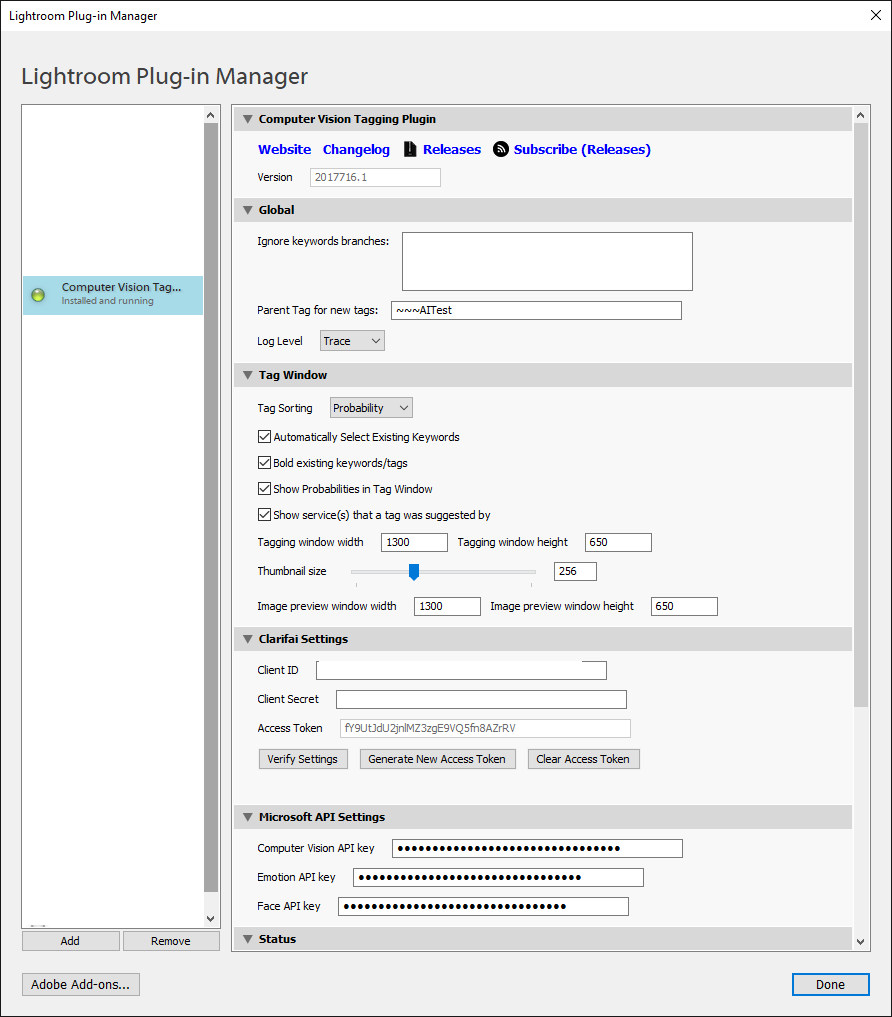
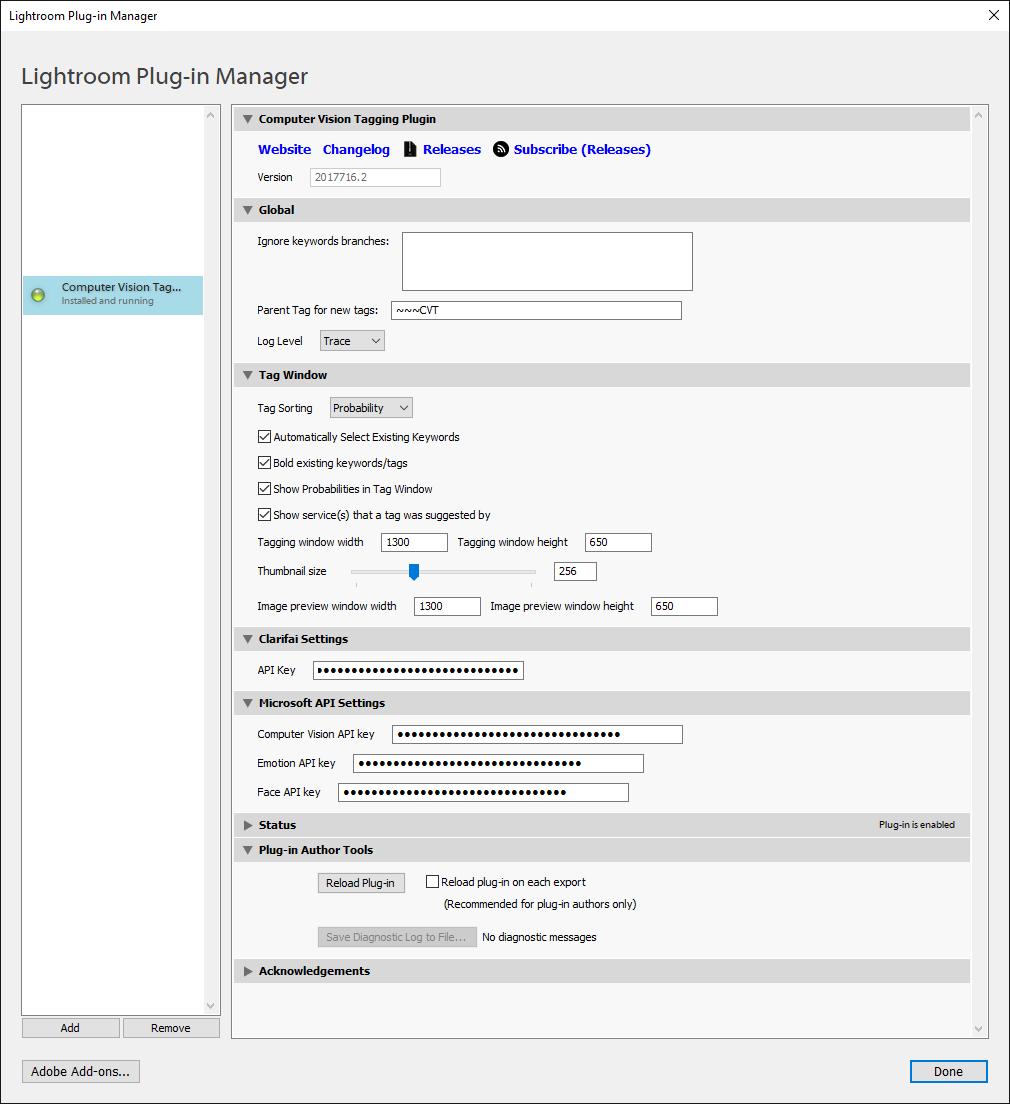
Phase 17 updates/release

Changed region(s): [[0.0, 0.0, 1.0, 1.0], [0.0, 0.0, 0.1816, 0.0305]]

diff --git a/docs/clarifai_api_setup_legacy.md b/docs/clarifai_api_setup_legacy.md
@@ -1,0 +1,48 @@
+---
+layout: page
+title: Clarifai API Setup 
+subtitle: How to setup the Clarifai API with the Lightroom Computer Vision Plugin (releases prior to 20170717.1)
+---
+
+*Note: you can click the screen shots for larger versions*
+
+# Create Clarifai API Account
+1. Head over to the [Clarifai API Developer website (link)](https://developer.clarifai.com/) and sign up for a new account  
+    [![sign_up.png]({{ '/img/clarifai_api_setup/sign_up.png' | prepend: site.baseurl | replace: '//', '/' }}){:height="128px"}]({{ '/img/clarifai_api_setup/sign_up.png' | prepend: site.baseurl | replace: '//', '/' }})
+1. After your account is created, login to the [Clarifai API Developer website (link)](https://developer.clarifai.com/)  
+    [![login.png]({{ '/img/clarifai_api_setup/login.png' | prepend: site.baseurl | replace: '//', '/' }}){:height="128px"}]({{ '/img/clarifai_api_setup/login.png' | prepend: site.baseurl | replace: '//', '/' }})
+1. Click on the "Applications" link in the left navigation bar  
+    [![applications.png]({{ '/img/clarifai_api_setup/applications.png' | prepend: site.baseurl | replace: '//', '/' }}){:height="128px"}]({{ '/img/clarifai_api_setup/applications.png' | prepend: site.baseurl | replace: '//', '/' }})
+1. Click on "Create a New Application" button that is in the main area of the web page  
+    [![create_application.png]({{ '/img/clarifai_api_setup/create_application.png' | prepend: site.baseurl | replace: '//', '/' }}){:height="128px"}]({{ '/img/clarifai_api_setup/create_application.png' | prepend: site.baseurl | replace: '//', '/' }})
+1. Give the application a name that makes sense for you and click "Create Application"  
+    [![name_create.png]({{ '/img/clarifai_api_setup/name_create.png' | prepend: site.baseurl | replace: '//', '/' }}){:height="128px"}]({{ '/img/clarifai_api_setup/name_create.png' | prepend: site.baseurl | replace: '//', '/' }})
+1. You will be returned to your application list after creation.
+1. Click the "Edit" button on the newly created app to open the details for the application  
+    [![app_details.png]({{ '/img/clarifai_api_setup/app_details.png' | prepend: site.baseurl | replace: '//', '/' }}){:height="128px"}]({{ '/img/clarifai_api_setup/app_details.png' | prepend: site.baseurl | replace: '//', '/' }})
+1. Click the "Show Legacy Authorization" heading on the screen that pops up.
+- *Note: as of this writing the legacy authorization tokens are required, a future update will change this*  
+    [![show_legacy_auth.png]({{ '/img/clarifai_api_setup/show_legacy_auth.png' | prepend: site.baseurl | replace: '//', '/' }}){:height="128px"}]({{ '/img/clarifai_api_setup/show_legacy_auth.png' | prepend: site.baseurl | replace: '//', '/' }})
+1. The screen will now show with fields named "Client Id" and "Client Secret". These values are used within the plugin for access to the Clarifai API setup.
+   - *Note: I've blacked out a large portion of the Client Id and Client Secret in the screenshot, your values will be much longer*  
+   [![client_id_client_secret.png]({{ '/img/clarifai_api_setup/client_id_client_secret.png' | prepend: site.baseurl | replace: '//', '/' }}){:height="128px"}]({{ '/img/clarifai_api_setup/client_id_client_secret.png' | prepend: site.baseurl | replace: '//', '/' }})
+
+# Setup Lightroom Computer Vision for Clarifai API usage
+1. Open Lightroom
+1. Open Plugin Manager in Lightroom  
+    [![file_plugin_manager.png]({{ '/img/install_setup/file_plugin_manager.png' | prepend: site.baseurl | replace: '//', '/' }}){:height="128px"}]({{ '/img/install_setup/file_plugin_manager.png' | prepend: site.baseurl | replace: '//', '/' }})
+1. Select the "Computer Vision Tagging" plugin  
+    [![select_lrcvt.png]({{ '/img/install_setup/select_lrcvt.png' | prepend: site.baseurl | replace: '//', '/' }}){:height="128px"}]({{ '/img/install_setup/select_lrcvt.png' | prepend: site.baseurl | replace: '//', '/' }})
+1. Copy and paste the "Client Id" value from the Clarifai website into the "Client ID" field that can be found under the Clarifai Settings section of the plugin preferences  
+    [![client_id_client_secret.png]({{ '/img/clarifai_api_setup/client_id_client_secret.png' | prepend: site.baseurl | replace: '//', '/' }}){:height="128px"}]({{ '/img/clarifai_api_setup/client_id_client_secret.png' | prepend: site.baseurl | replace: '//', '/' }})
+1. Copy and paste the "Client Secret" value from the Clarifai website into the "Client Secret" field that can be found under the Clarifai Settings section of the plugin preferences
+    - *Note: the pasted value will show as a series of dots, this is intentional behavior*  
+    [![lr_setup_client_secret.png]({{ '/img/clarifai_api_setup/lr_setup_client_secret.png' | prepend: site.baseurl | replace: '//', '/' }}){:height="128px"}]({{ '/img/clarifai_api_setup/lr_setup_client_secret.png' | prepend: site.baseurl | replace: '//', '/' }})
+1. Click the "Verify Settings" button  
+    [![verify_settings.png]({{ '/img/clarifai_api_setup/verify_settings.png' | prepend: site.baseurl | replace: '//', '/' }}){:height="128px"}]({{ '/img/clarifai_api_setup/verify_settings.png' | prepend: site.baseurl | replace: '//', '/' }})
+1. If the values for "Client ID" and "Client Secret" were correct, a "Success" message (in green) should display as well as an "Access Token" being generated and displayed
+    - *Note: if you see success and/or no access token, double check the values you entered for "Client ID" and "Client Secret"*  
+    [![values_returned.png]({{ '/img/clarifai_api_setup/values_returned.png' | prepend: site.baseurl | replace: '//', '/' }}){:height="128px"}]({{ '/img/clarifai_api_setup/values_returned.png' | prepend: site.baseurl | replace: '//', '/' }})
+1. The plugin is now setup to utilize the Clarifai API
+
+![Creative Commons License]({{ '/img/CC-BY-SA-NC-4.0.png' | prepend: site.baseurl | replace: '//', '/' }})

diff --git a/docs/clarifai_api_setup.md b/docs/clarifai_api_setup.md
@@ -1,7 +1,7 @@
 ---
 layout: page
 title: Clarifai API Setup
-subtitle: How to setup the Clarifai API with the Lightroom Computer Vision Plugin
+subtitle: How to setup the Clarifai API with the Lightroom Computer Vision Plugin (starting with 20170717.1 release)
 ---
 
 *Note: you can click the screen shots for larger versions*
@@ -20,12 +20,11 @@ subtitle: How to setup the Clarifai API with the Lightroom Computer Vision Plugi
 1. You will be returned to your application list after creation.
 1. Click the "Edit" button on the newly created app to open the details for the application  
     [![app_details.png]({{ '/img/clarifai_api_setup/app_details.png' | prepend: site.baseurl | replace: '//', '/' }}){:height="128px"}]({{ '/img/clarifai_api_setup/app_details.png' | prepend: site.baseurl | replace: '//', '/' }})
-1. Click the "Show Legacy Authorization" heading on the screen that pops up.
-- *Note: as of this writing the legacy authorization tokens are required, a future update will change this*  
-    [![show_legacy_auth.png]({{ '/img/clarifai_api_setup/show_legacy_auth.png' | prepend: site.baseurl | replace: '//', '/' }}){:height="128px"}]({{ '/img/clarifai_api_setup/show_legacy_auth.png' | prepend: site.baseurl | replace: '//', '/' }})
-1. The screen will now show with fields named "Client Id" and "Client Secret". These values are used within the plugin for access to the Clarifai API setup.
-   - *Note: I've blacked out a large portion of the Client Id and Client Secret in the screenshot, your values will be much longer*  
-   [![client_id_client_secret.png]({{ '/img/clarifai_api_setup/client_id_client_secret.png' | prepend: site.baseurl | replace: '//', '/' }}){:height="128px"}]({{ '/img/clarifai_api_setup/client_id_client_secret.png' | prepend: site.baseurl | replace: '//', '/' }})
+1. Click the "API Keys" heading on the screen that pops up.  
+    [![show_api_key.png]({{ '/img/clarifai_api_setup/show_api_key.png' | prepend: site.baseurl | replace: '//', '/' }}){:height="128px"}]({{ '/img/clarifai_api_setup/show_api_key.png' | prepend: site.baseurl | replace: '//', '/' }})
+1. The screen will now show the generated API Key. The value is used within the plugin for access to the Clarifai API setup.  
+   - *Note: I've blacked out a large portion of the API Key in the screenshot, your values will be much longer*  
+   [![web_api_key.png]({{ '/img/clarifai_api_setup/web_api_key.png' | prepend: site.baseurl | replace: '//', '/' }}){:height="128px"}]({{ '/img/clarifai_api_setup/web_api_key.png' | prepend: site.baseurl | replace: '//', '/' }})
 
 # Setup Lightroom Computer Vision for Clarifai API usage
 1. Open Lightroom
@@ -33,16 +32,8 @@ subtitle: How to setup the Clarifai API with the Lightroom Computer Vision Plugi
     [![file_plugin_manager.png]({{ '/img/install_setup/file_plugin_manager.png' | prepend: site.baseurl | replace: '//', '/' }}){:height="128px"}]({{ '/img/install_setup/file_plugin_manager.png' | prepend: site.baseurl | replace: '//', '/' }})
 1. Select the "Computer Vision Tagging" plugin  
     [![select_lrcvt.png]({{ '/img/install_setup/select_lrcvt.png' | prepend: site.baseurl | replace: '//', '/' }}){:height="128px"}]({{ '/img/install_setup/select_lrcvt.png' | prepend: site.baseurl | replace: '//', '/' }})
-1. Copy and paste the "Client Id" value from the Clarifai website into the "Client ID" field that can be found under the Clarifai Settings section of the plugin preferences  
-    [![client_id_client_secret.png]({{ '/img/clarifai_api_setup/client_id_client_secret.png' | prepend: site.baseurl | replace: '//', '/' }}){:height="128px"}]({{ '/img/clarifai_api_setup/client_id_client_secret.png' | prepend: site.baseurl | replace: '//', '/' }})
-1. Copy and paste the "Client Secret" value from the Clarifai website into the "Client Secret" field that can be found under the Clarifai Settings section of the plugin preferences
-    - *Note: the pasted value will show as a series of dots, this is intentional behavior*  
-    [![lr_setup_client_secret.png]({{ '/img/clarifai_api_setup/lr_setup_client_secret.png' | prepend: site.baseurl | replace: '//', '/' }}){:height="128px"}]({{ '/img/clarifai_api_setup/lr_setup_client_secret.png' | prepend: site.baseurl | replace: '//', '/' }})
-1. Click the "Verify Settings" button  
-    [![verify_settings.png]({{ '/img/clarifai_api_setup/verify_settings.png' | prepend: site.baseurl | replace: '//', '/' }}){:height="128px"}]({{ '/img/clarifai_api_setup/verify_settings.png' | prepend: site.baseurl | replace: '//', '/' }})
-1. If the values for "Client ID" and "Client Secret" were correct, a "Success" message (in green) should display as well as an "Access Token" being generated and displayed
-    - *Note: if you see success and/or no access token, double check the values you entered for "Client ID" and "Client Secret"*  
-    [![values_returned.png]({{ '/img/clarifai_api_setup/values_returned.png' | prepend: site.baseurl | replace: '//', '/' }}){:height="128px"}]({{ '/img/clarifai_api_setup/values_returned.png' | prepend: site.baseurl | replace: '//', '/' }})
+1. Copy and paste the "API Key" value from the Clarifai website into the "API Key" field that can be found under the Clarifai Settings section of the plugin preferences  
+    [![lr_api_key.png]({{ '/img/clarifai_api_setup/lr_api_key.png' | prepend: site.baseurl | replace: '//', '/' }}){:height="128px"}]({{ '/img/clarifai_api_setup/lr_api_key.png' | prepend: site.baseurl | replace: '//', '/' }})
 1. The plugin is now setup to utilize the Clarifai API
 
 ![Creative Commons License]({{ '/img/CC-BY-SA-NC-4.0.png' | prepend: site.baseurl | replace: '//', '/' }})

diff --git a/project_plan.md b/project_plan.md
@@ -8,35 +8,43 @@ This document outlines the rough roadmap the developers will loosely follow. Ove
 
 Please note there are not any dates listed here. The developers have day jobs and will **NOT** commit to deadlines. Don't ask.
 
-# Phase 16 - Clarifai API v2
-- [X] Branch
-- [X] Clarifai API v2
-- [ ] Version Bump
-- [ ] Branch merge
-- [ ] Branch cleanup
-- [ ] Update Project Plan
-- [ ] Update setup docs for new auth tokens/similar
-- [ ] Upgrade from v1 to v2 Clarifai API instructions for existing users
-- [ ] Note in docs that menu items are no longer available due to lack of support in v2 of API
-- [ ] Post on docs site
-
 # Phase 17 - Custom Metadata
+- [ ] Branch
 - [ ] Field(s) for tracking which services submitted to -- helps with smart collections
 - [ ] Field(s) to hold raw service response data
 - [ ] Field(s) to hold/show service specific data elements (processed to something human readable/sane -- everything but tags)
 - [ ] Field(s) to hold/show tags returned by services (show service + tag tuple)
 - [ ] Menu items for saving custom metadata fields as json side cars (think XMP sidecars)
+- [ ] Version Bump
+- [ ] Branch merge
+- [ ] Branch cleanup
+- [ ] Update Project Plan / Changelog / Release post
 
 # Phase 18 - Smart Collections
+- [ ] Branch
 - [ ] All photos submitted
 - [ ] Collection for each service and the images sent to the service
+- [ ] Version Bump
+- [ ] Branch merge
+- [ ] Branch cleanup
+- [ ] Update Project Plan / Changelog / Release post
 
 # Phase 19 - Custom Badges
+- [ ] Branch
 - [ ] Badge/overlay for files sent to services
 - [ ] Badge/overlay for each service
+- [ ] Version Bump
+- [ ] Branch merge
+- [ ] Branch cleanup
+- [ ] Update Project Plan / Changelog / Release post
 
 # Phase 20 - Search Filters
+- [ ] Branch
 - [ ] Additional filters for search
+- [ ] Version Bump
+- [ ] Branch merge
+- [ ] Branch cleanup
+- [ ] Update Project Plan / Changelog / Release post
 
 # Phase Future (enhancements / features)
 - [ ] Preference to show only non-API suggested, existing key words in tagging dialog

diff --git a/docs/menu_items.md b/docs/menu_items.md
@@ -17,6 +17,10 @@ This plugin registers some helpful menu items. They can be found by
 [![menu_items.png]({{ '/img/menu_items/menu_items.png' | prepend: site.baseurl | replace: '//', '/' }}){:height="128px"}]({{ '/img/menu_items/menu_items.png' | prepend: site.baseurl | replace: '//', '/' }})
 
 ## Clarifai API Info Menu Item
+
+#### Please note this is no longer supported as of the 20170717.1 release. The underlying API methods are no longer supported in v2 of the API. If this changes the feature will be added back.
+
+
 The Clarifai API Info menu item will open a dialog that shows general information related to your Clarifai developer/API account. Default language, model, photo and video limits will be show.
 
 *Please note, it may take a second for the dialog values to populate. This is normal and expected behavior*
@@ -24,6 +28,10 @@ The Clarifai API Info menu item will open a dialog that shows general informatio
 [![clarifai_api_info.png]({{ '/img/menu_items/clarifai_api_info.png' | prepend: site.baseurl | replace: '//', '/' }}){:height="128px"}]({{ '/img/menu_items/clarifai_api_info.png' | prepend: site.baseurl | replace: '//', '/' }})
 
 ## Clarifai API Usage Menu Item
+
+#### Please note this is no longer supported as of the 20170717.1 release. The underlying API methods are no longer supported in v2 of the API. If this changes the feature will be added back.
+
+
 The Clarifai API Usage menu item will open a dialog that shows general usage information related to your Clarifai devloper/API account. Two blocks should show: one for usage per hour and another for usage per month. The order of these is determined by the Clarifai API so please pay close attention to the "Units" field which will indicate if the usage values are per hour or per month.
 
 [![clarifai_api_usage.png]({{ '/img/menu_items/clarifai_api_usage.png' | prepend: site.baseurl | replace: '//', '/' }}){:height="128px"}]({{ '/img/menu_items/clarifai_api_usage.png' | prepend: site.baseurl | replace: '//', '/' }})

diff --git a/docs/screenshots.md b/docs/screenshots.md
@@ -16,9 +16,13 @@ Click images for larger versions
 [![Plugin_Settings.png]({{ '/img/screenshots/Plugin_Settings.png' | prepend: site.baseurl | replace: '//', '/' }}){:height="256px"}]({{ '/img/screenshots/Plugin_Settings.png' | prepend: site.baseurl | replace: '//', '/' }})
 
 # Clarifai Usage Info Dialog
+
+#### Please note this is no longer supported as of the 20170717.1 release. The underlying API methods are no longer supported in v2 of the API. If this changes the feature will be added back.
 [![Clarifai_Usage.png]({{ '/img/screenshots/Clarifai_Usage.png' | prepend: site.baseurl | replace: '//', '/' }}){:height="256px"}]({{ '/img/screenshots/Clarifai_Usage.png' | prepend: site.baseurl | replace: '//', '/' }})
 
 # Clarifai API Info Dialog
+
+#### Please note this is no longer supported as of the 20170717.1 release. The underlying API methods are no longer supported in v2 of the API. If this changes the feature will be added back.
 [![Clarifai_API_Info.png]({{ '/img/screenshots/Clarifai_API_Info.png' | prepend: site.baseurl | replace: '//', '/' }}){:height="256px"}]({{ '/img/screenshots/Clarifai_API_Info.png' | prepend: site.baseurl | replace: '//', '/' }})
 
 ![Creative Commons License]({{ '/img/CC-BY-SA-NC-4.0.png' | prepend: site.baseurl | replace: '//', '/' }})

diff --git a/changelog.md b/changelog.md
@@ -4,6 +4,18 @@ title: Changelog
 subtitle: Changes / updates / fixes by phase
 ---
 
+# Phase 16 - Clarifai API v2
+- [X] Branch
+- [X] Clarifai API v2
+- [X] Version Bump
+- [X] Branch merge
+- [X] Branch cleanup
+- [X] Update Project Plan
+- [X] Update setup docs for new auth tokens/similar
+- [X] Upgrade from v1 to v2 Clarifai API instructions for existing users
+- [X] Note in docs that menu items are no longer available due to lack of support in v2 of API
+- [X] Post on docs site
+
 # Phase 15 - Microsoft API Docs
 - [X] Create docs for setup of Microsoft Computer Vision services (use Clarifai docs as template/model)
 - [X] Update screenshots of application dialogs/windows/etc

diff --git a/_posts/2017-07-17-1-clarifai-v2.md b/_posts/2017-07-17-1-clarifai-v2.md
@@ -1,0 +1,20 @@
+---
+layout: post
+title: Phase 17
+subtitle: Clarifai API v2
+---
+
+# Changelog
+- [X] Branch
+- [X] Clarifai API v2
+- [X] Version Bump
+- [X] Branch merge
+- [X] Branch cleanup
+- [X] Update Project Plan
+- [X] Update setup docs for new auth tokens/similar
+- [X] Note in docs that menu items are no longer available due to lack of support in v2 of API
+- [X] Post on docs site
+
+# Download Release
+
+[![Zip File Icon]({{ '/img/zip_icon.png' | prepend: site.baseurl | replace: '//', '/' }}){:height="120px" width="120px"}](https://github.com/mcrosson/lr_plugin_computer_vision_tagging/archive/20170717.1.zip)

diff --git a/docs/plugin_prefs.md b/docs/plugin_prefs.md
@@ -63,6 +63,16 @@ Image preview window height
 : The height (in pixels) of the image preview window. Currently the image preview window cannot be resized once it is shown. Use this field to adjust the size of the window shown.
 
 # Clarifai Settings Section
+
+#### Releases starting with 20170717.1 release
+
+API Key
+: The generated application API Key from the Clarifai website
+
+# Clarifai Settings Section 
+
+#### Releases prior to 20170717.1 release
+
 Client ID
 : The generated application client ID from the Clarifai website
 
